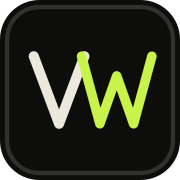
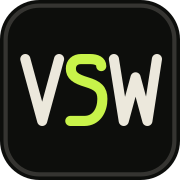
feat: establish VSW monogram identity, security headers and clean portrait assets

Changed region(s): [[0.1111, 0.2778, 0.9167, 0.7222], [0.0, 0.0, 1.0, 1.0]]

diff --git a/index.html b/index.html
@@ -3,10 +3,10 @@
   <head>
     <meta charset="UTF-8" />
     <meta name="viewport" content="width=device-width, initial-scale=1, viewport-fit=cover" />
-    <title>Vaibhav S. Wandkar — Python & Django Full-Stack Developer · Software Engineer</title>
+    <title>VSW — Vaibhav S. Wandkar | Python & Django Full-Stack Developer</title>
     <meta
       name="description"
-      content="Portfolio of Vaibhav S. Wandkar — Python Developer, Django Full-Stack Developer and Computer Science & Design student at BIET Davangere building thoughtful interfaces and reliable backend systems."
+      content="VSW portfolio of Vaibhav S. Wandkar — Python Developer, Django Full-Stack Developer and Software Engineer building practical software through thoughtful engineering."
     />
     <meta name="author" content="Vaibhav S. Wandkar" />
     <meta name="color-scheme" content="dark light" />
@@ -16,22 +16,22 @@
     <link rel="manifest" href="/site.webmanifest" />
 
     <meta property="og:type" content="website" />
-    <meta property="og:site_name" content="Vaibhav S. Wandkar" />
+    <meta property="og:site_name" content="VSW — Vaibhav S. Wandkar" />
     <meta property="og:locale" content="en_IN" />
-    <meta property="og:title" content="Vaibhav S. Wandkar — Python & Django Full-Stack Developer · Software Engineer" />
+    <meta property="og:title" content="VSW — Vaibhav S. Wandkar | Python & Django Full-Stack Developer" />
     <meta
       property="og:description"
-      content="Building intelligent digital experiences with Python and Django — full-stack web applications, database systems, AI/ML and cybersecurity."
+      content="Building intelligent applications through thoughtful engineering — Python, Django, full-stack web systems, AI/ML and cybersecurity."
     />
     <meta property="og:image" content="%OG_IMAGE%" />
     <meta property="og:image:width" content="1200" />
     <meta property="og:image:height" content="630" />
-    <meta property="og:image:alt" content="Vaibhav S. Wandkar — Python & Django Full-Stack Developer portfolio" />
+    <meta property="og:image:alt" content="VSW — Vaibhav S. Wandkar portfolio social preview" />
     <meta name="twitter:card" content="summary_large_image" />
-    <meta name="twitter:title" content="Vaibhav S. Wandkar — Python & Django Full-Stack Developer · Software Engineer" />
+    <meta name="twitter:title" content="VSW — Vaibhav S. Wandkar | Python & Django Full-Stack Developer" />
     <meta
       name="twitter:description"
-      content="Building intelligent digital experiences with Python and Django — full-stack web applications, database systems, AI/ML and cybersecurity."
+      content="Building intelligent applications through thoughtful engineering — Python, Django, full-stack web systems, AI/ML and cybersecurity."
     />
     <meta name="twitter:image" content="%OG_IMAGE%" />
     <!--SITE_META-->

diff --git a/src/components/BrandLogo.tsx b/src/components/BrandLogo.tsx
@@ -4,33 +4,47 @@ interface Props {
 }
 
 const sizeClasses = {
-  sm: 'h-9 w-9 rounded-xl',
-  md: 'h-10 w-10 rounded-xl',
-  lg: 'h-12 w-12 rounded-2xl',
+  sm: 'h-9 w-12 rounded-xl',
+  md: 'h-10 w-14 rounded-xl',
+  lg: 'h-12 w-16 rounded-2xl',
 } as const
 
-export function BrandLogo({ size = 'sm', className = '' }: Props) {
+/**
+ * Geometric VSW monogram with balanced, non-overlapping strokes that remain
+ * crisp from 16px favicons up to hero/footer marks in both dark and light themes.
+ */
+export function BrandLogo({ size = 'md', className = '' }: Props) {
   return (
     <span
       className={`group/logo relative inline-flex shrink-0 items-center justify-center overflow-hidden border border-line-strong bg-surface transition-colors duration-300 group-hover:border-accent-ink ${sizeClasses[size]} ${className}`}
     >
       <svg
-        viewBox="0 0 40 40"
+        viewBox="0 0 64 40"
         fill="none"
         aria-hidden="true"
-        className="h-[72%] w-[72%] transition-transform duration-300 ease-[cubic-bezier(0.16,1,0.3,1)] group-hover:scale-105"
+        className="h-[74%] w-[82%] transition-transform duration-300 ease-[cubic-bezier(0.16,1,0.3,1)] group-hover:scale-[1.03]"
       >
+        {/* V */}
         <path
-          d="M5.5 11.5L12 29L18.5 11.5"
-          className="stroke-ink transition-transform duration-300 ease-[cubic-bezier(0.16,1,0.3,1)] group-hover:-translate-x-[0.5px]"
-          strokeWidth="2.6"
+          d="M6.5 9.5L13 30.5L19.5 9.5"
+          className="stroke-ink"
+          strokeWidth="3.1"
           strokeLinecap="round"
           strokeLinejoin="round"
         />
+        {/* S */}
         <path
-          d="M17.5 11.5L22.5 29L27 16.5L31.5 29L36.5 11.5"
-          className="stroke-accent-ink transition-transform duration-300 ease-[cubic-bezier(0.16,1,0.3,1)] group-hover:translate-x-[0.5px]"
-          strokeWidth="2.5"
+          d="M36.5 12C36.5 10.3 34.9 9.5 32.4 9.5H28.8C26.5 9.5 25 10.9 25 13C25 15.6 26.8 16.9 31.1 18.2C35.2 19.4 37 20.9 37 24.4C37 28 34.8 30.5 30.2 30.5H24.8"
+          className="stroke-accent-ink transition-transform duration-300 ease-[cubic-bezier(0.16,1,0.3,1)] group-hover:-translate-y-[0.6px]"
+          strokeWidth="3.2"
+          strokeLinecap="round"
+          strokeLinejoin="round"
+        />
+        {/* W */}
+        <path
+          d="M41.8 9.5L45.4 30.5L49.8 16L54.2 30.5L57.8 9.5"
+          className="stroke-ink"
+          strokeWidth="3.1"
           strokeLinecap="round"
           strokeLinejoin="round"
         />

diff --git a/src/components/PortraitFrame.tsx b/src/components/PortraitFrame.tsx
@@ -10,31 +10,31 @@ export function PortraitFrame({ className = '' }: Props) {
   const [errored, setErrored] = useState(false)
 
   return (
-    <figure className={`relative overflow-hidden rounded-3xl border border-line-strong bg-bg-2 ${className}`}>
-      {/* Top header bar */}
+    <figure className={`relative overflow-hidden rounded-2xl border border-line-strong bg-bg-2 ${className}`}>
+      {/* Minimal VSW studio header */}
       <div className="flex items-center justify-between border-b border-line px-5 py-3.5 font-mono text-[11px] uppercase tracking-[0.16em] text-muted">
         <span className="inline-flex items-center gap-2">
-          <span className="pulse-dot h-2 w-2 rounded-full bg-accent" aria-hidden="true" />
-          <span className="font-medium text-ink">V. S. WANDKAR</span>
+          <span className="h-2 w-2 rounded-full bg-accent" aria-hidden="true" />
+          <span className="font-semibold text-ink">{profile.initials}</span>
         </span>
         <span className="text-accent-ink">PYTHON · DJANGO</span>
       </div>
 
-      {/* Dedicated unobstructed portrait surface — preserves crisp white studio background */}
+      {/* Dedicated unobstructed portrait surface — preserves natural 782:1024 proportions & white studio backdrop */}
       <div className="p-3">
-        <div className="relative aspect-[4/5] w-full overflow-hidden rounded-2xl border border-line bg-white">
+        <div className="relative aspect-[782/1024] w-full overflow-hidden rounded-xl border border-line bg-white">
           {!errored ? (
             <picture>
               <source
                 type="image/webp"
-                srcSet="/images/vaibhav-portrait-480.webp 480w, /images/vaibhav-portrait-800.webp 800w"
+                srcSet="/images/vaibhav-portrait-480.webp 480w, /images/vaibhav-portrait-782.webp 782w"
                 sizes="(max-width: 1024px) 90vw, 400px"
               />
               <img
-                src="/images/vaibhav-portrait-800.jpg"
-                width={800}
-                height={1000}
-                alt={`Portrait of ${profile.name}`}
+                src="/images/vaibhav-portrait-original.jpg"
+                width={782}
+                height={1024}
+                alt={`Studio portrait of ${profile.name}`}
                 fetchPriority="high"
                 decoding="async"
                 onError={() => setErrored(true)}

diff --git a/vite.config.ts b/vite.config.ts
@@ -30,6 +30,7 @@ function siteMeta(siteUrl: string): Plugin {
         '@context': 'https://schema.org',
         '@type': 'Person',
         name: profile.name,
+        alternateName: 'VSW',
         ...(siteUrl ? { url: `${siteUrl}/` } : {}),
         jobTitle: 'Python & Django Full-Stack Developer',
         description: profile.positioning,
